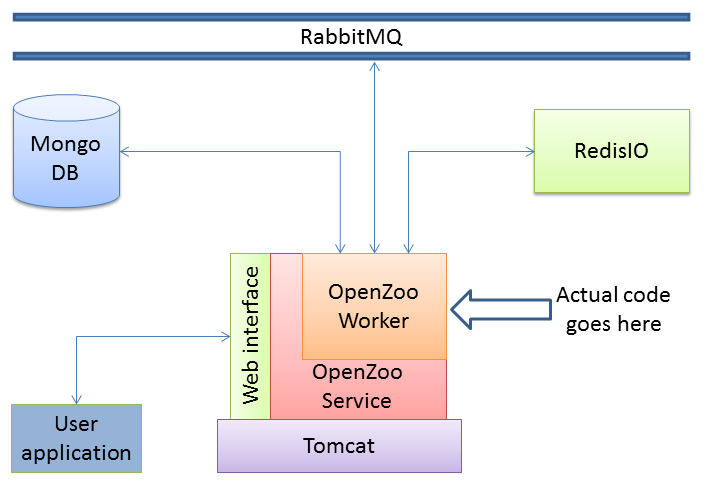
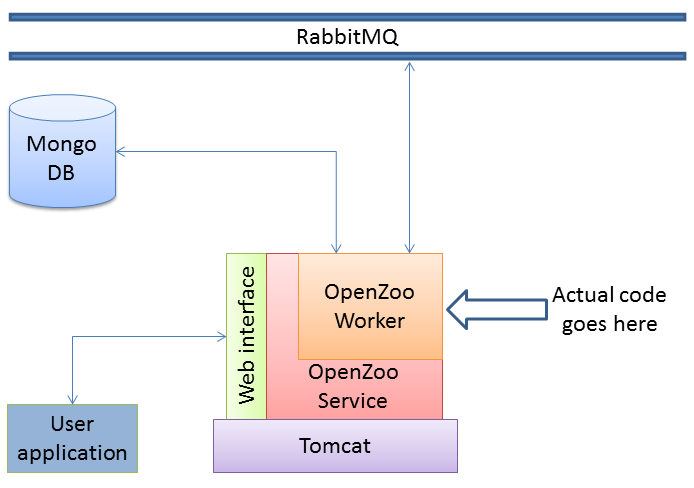
Replaced RedisIO through MongoDB for parameter storage and exchange

diff --git a/install.md b/install.md
@@ -9,9 +9,8 @@ In the following, detailed instructions are given for both.
 # Prerequisites
 - Netbeans 8 EE for developing the services and creating the war files of the services and the OpenZUI.
 - Apache Tomcat 7 for the OpenZUI and the servers. Apache Tomcat 8 should also work, but it is not tested yet.
-- RedisIO for storing and exchanging framework parameters.
 - RabbitMQ for the communication between the services.
-- MongoDB 2.6 or higher for storing results. Version 3.0 or higher is recommended.
+- MongoDB 2.6 or higher for storing results and for storing and exchanging framework parameters. Version 3.0 or higher is recommended.
 - [Twitter authorization tokens](https://dev.twitter.com/oauth/overview/application-owner-access-tokens) for using the demonstration topology described in the sequel.
 
 # Installation of third party software
@@ -88,7 +87,7 @@ More information on choosing meaningful parameters can be found in this brief, e
 
 The Tomcat credentials are needed later for registering the servers through OpenZUI.
 
-## [RedisIO](http://redis.io/)
+<!--- ## [RedisIO](http://redis.io/)
 Redis needs to be installed just once, preferably on the server where the OpenZUI management tool will be installed.
 
 - Install server
@@ -128,7 +127,7 @@ bind X.X.X.X 127.0.0.1
 
 > sudo service redis-server restart
 
-The Redis IP will used later, before deploying the OpenZUI application.
+The Redis IP will used later, before deploying the OpenZUI application.-->
 
 ## [RabbitMQ](https://www.rabbitmq.com/)
 You can install one RabbitMQ server per topology, or use one for all your topologies.
@@ -171,6 +170,7 @@ This information (username and password) will be used later when creating a topo
 
 ## [MongoDB](https://www.mongodb.org/)
 You can install one MongoDB server per topology, or use one for all your topologies, selecting different database names for each topology.
+One instance of MongoDB will be used as a blackboard, for storing and exchanging topology parameters.
 
 - Install Mongo 2.6 or higher (3.0 or higher recommended)
 
@@ -217,18 +217,26 @@ Give in the following commands in the Mongo shell:
 
 ~~~~~~
 use admin
-db.createUser( { user: "dbowner", pwd: "dbownpwd", roles: [ { role: "dbOwner", db: "admin" } ] } )
+db.createUser( { user: "dbowner", pwd: "dbownpwd", roles: [ { role: "root", db: "admin" } ] } )
 db.dropUser("dbowner")
 var schema = db.system.version.findOne({"_id" : "authSchema"})
 schema.currentVersion = 3
 db.system.version.save(schema)
-db.createUser( { user: "dbowner", pwd: "dbownpwd", roles: [ { role: "dbOwner", db: "admin" } ] } )
+db.createUser( { user: "dbowner", pwd: "dbownpwd", roles: [ { role: "root", db: "admin" } ] } )
+use openzoo
+db.createUser( { user: "dbadmin", pwd: "dbozpwd", roles: [ {role: "readWrite", db: "openzoo"} ] } )
 use testdb
 db.createUser( { user: "dbadmin", pwd: "dbpwd", roles: [ {role: "readWrite", db: "testdb"} ] } )
 ~~~~~~
 
-We create an initial user, we set the authSchema version, we drop the user and then recreate the *dbowner* user (please use a different password) with the role dbOwner.
-This user can do anything with any database on the server. It is intended for general database administration and will not be used by OpenZoo. Please use it with caution.
+We create an initial user, we set the authSchema version, we drop the user and then recreate the *dbowner* user (please use a different password) with the role *root*.
+Please keep in mind that a user with the root role has every possible access right to every database, so please use it with caution.
+It is intended for general database administration (e.g. creating users for new databases) and will not be used by OpenZoo.
+
+The next two lines create an *openzoo database*, known as *blackboard* and a user with read/write rights on that database.
+Please use your own names for the user and, of course, a different password.
+This database will be used for storing and exchanging topology parameters.
+The database name and the credentials will be used by the OpenZUI application.
 
 The last two lines create a *testdb database* and a user with read/write rights on that database.
 Please use your own names for the database, the user and, of course, a different password.
@@ -276,14 +284,14 @@ security:
 
 2. Run Tomcat 7 server on all available servers and create a password protected user on each tomcat server, as described in the section above.
 
-3. Install RedisIO on a server, preferably on the same server where OpenZUI will be installed, as described in the section above.
+3. Install MongoDB on a server, as described in the section above.
 
 4. Open all projects with Netbeans 8.
 
 5. Build projects, starting by ServerResources, since it needs to be included in the OpenZUI war later. The inclusion is going to be done automatically (on -post-dist).
 
 6. Edit OpenZUI/web/config.json:
-    - update keyvalue.host and keyvalue.port with the RedisIO server and port
+    - update blackboard.host, blackboard.port, blackboard.user, blackboard.passwd and blackboard.database with the Mongo server and port and the blackboard credentials.
     - update localRepository with a folder with read/write permissions for the tomcat user, anywhere on the server where OpenZUI will be installed.
     - update demouser.username and demouser.passwd, if necessary
 

diff --git a/future.md b/future.md
@@ -8,7 +8,7 @@ If you would like to contribute to OpenZoo, please [feel free to do so](http://O
 
 ## Programming languages
 We are currently working on a C++ and a Python template for OpenZoo, meaning that the developer will have more options for writing the services than just Java.
-RedisIO, RabbitMQ  and MongoDB communication is the first hurdle, since the clients are OS-dependend and, even worse, compiler dependend.
+RabbitMQ and MongoDB communication is the first hurdle, since the clients are OS-dependend and, even worse, compiler dependend.
 But the main problem is the remote deployment of the services.
 What we have in mind is to develop a Tomcat application, that will be deployed together with the ServerResources application on any server participating to the cluster, and will take over the application management.
 
@@ -27,19 +27,5 @@ There are two reasons for this:
 
 - There is currently no authentication for the exposed interfaces of the components (GETs, POSTs, etc.). This can be done in future versions.
 
-- Redis is not intended for running in the open internet. From the Redis web site:
+- ~~Redis is used for topology parameter storage and exchange, which is not intended for running in the open internet.~~ **UPDATE**: Redis has been replaced through MongoDB.
 
-> Redis is designed to be accessed by trusted clients inside trusted environments. This means that usually it is not a good idea to expose the Redis instance directly to the internet or, in general, to an environment where untrusted clients can directly access the Redis TCP port or UNIX socket.
-
-> Access to the Redis port should be denied to everybody but trusted clients in the network, so the servers running Redis should be directly accessible only by the computers implementing the application using Redis.
-
-This is, in our case, not convenient, since not only OpenZUI, but also all servers in our cluster need access to Redis and we want to be able to add new servers to our cluster without having to update firewall rules.
-A solution could be the authentication layer of Redis:
-
-> While Redis does not try to implement Access Control, it provides a tiny layer of authentication that is optionally turned on editing the redis.conf file. When the authorization layer is enabled, Redis will refuse any query by unauthenticated clients. A client can authenticate itself by sending the AUTH command followed by the password. The password is set by the system administrator in clear text inside the redis.conf file.
-
-Again, apart from the performance considerations, this is not the perfect solution, since:
-
-> The AUTH command, like every other Redis command, is sent unencrypted, so it does not protect against an attacker that has enough access to the network to perform eavesdropping.
-
-Another idea would be to use MongoDB as a key-value repository. This would introduce a performance drop, but also enable deployment in the open internet.

diff --git a/demo.md b/demo.md
@@ -15,7 +15,7 @@ We have also another server at our disposal, *Leda*, for management purposes. Le
 
 Let's assume that we have installed the following software on each server, as described in the Installation page:
 
-- ***Leda***: **Tomcat** (credentials: admin/tpwd), **RedisIO**, **RabbitMQ** (credentials: qadmin/qpwd), **MongoDB** (credentials: dbadmin/dbpwd), **OpenZUI** (credentials: admin/open)
+- ***Leda***: **Tomcat** (credentials: admin/tpwd), **RabbitMQ** (credentials: qadmin/qpwd), **MongoDB** (credentials: dbadmin/dbozpwd for blackboard, dbadmin/dbpwd for storing results), **OpenZUI** (credentials: admin/open)
 - ***Castor***: **Tomcat** (user: admin, pwd: tpwd)
 - ***Polydeuces***: **Tomcat** (user: admin, pwd: tpwd)
 
@@ -192,6 +192,9 @@ We can now create our topology in the "Topology management" interface.
 
 We input a unique name for the topology, a description and access information for RabbitMQ and MongoDB.
 Each topology can have its own RabbitMQ and MongoDB servers, but we can also use one RabbitMQ and one MongoDB for all our topologies.
+
+Note: The MongoDB required here is for storing the results. The MongoDB used as a blackboard (which can be of course the same instance) is given in the config.json of the OpenZUI application.
+
 
 After clicking the Create button, we are redirected to a drawing interface.
 

diff --git a/index.md b/index.md
@@ -37,7 +37,7 @@ In the near future, it is going to be used in a mixture of the above mentioned c
 
 ## Support
 OpenZoo supports both Windows (tested on XP and Win7) and Linux (tested on Ubuntu 14.04 LTS).
-It uses MongoDB for persistence, RabbitMQ as a communication medium and RedisIO for exchanging parameters.
+It uses RabbitMQ as a communication medium and MongoDB for persistence and exchange of parameters.
 Services are running on Tomcat (tested on Tomcat 7).
 Currently, only Java is supported for service development. C++ and Python service templates are the next major milestone.
 

diff --git a/api.md b/api.md
@@ -60,9 +60,9 @@ The main parts of each component are the following:
 
 The service template enables also the following:
 
-- Reading topology parameters (server addresses, routing information, instantiation, etc.) from the RedisIO
-- Exchanging service specific parameters through RedisIO
-- Writing service statistics to the RedisIO
+- Reading topology parameters (server addresses, routing information, instantiation, etc.) from the MongoDB
+- Exchanging service specific parameters through MongoDB
+- Writing service statistics to the MongoDB
 
 
 ## Service types
